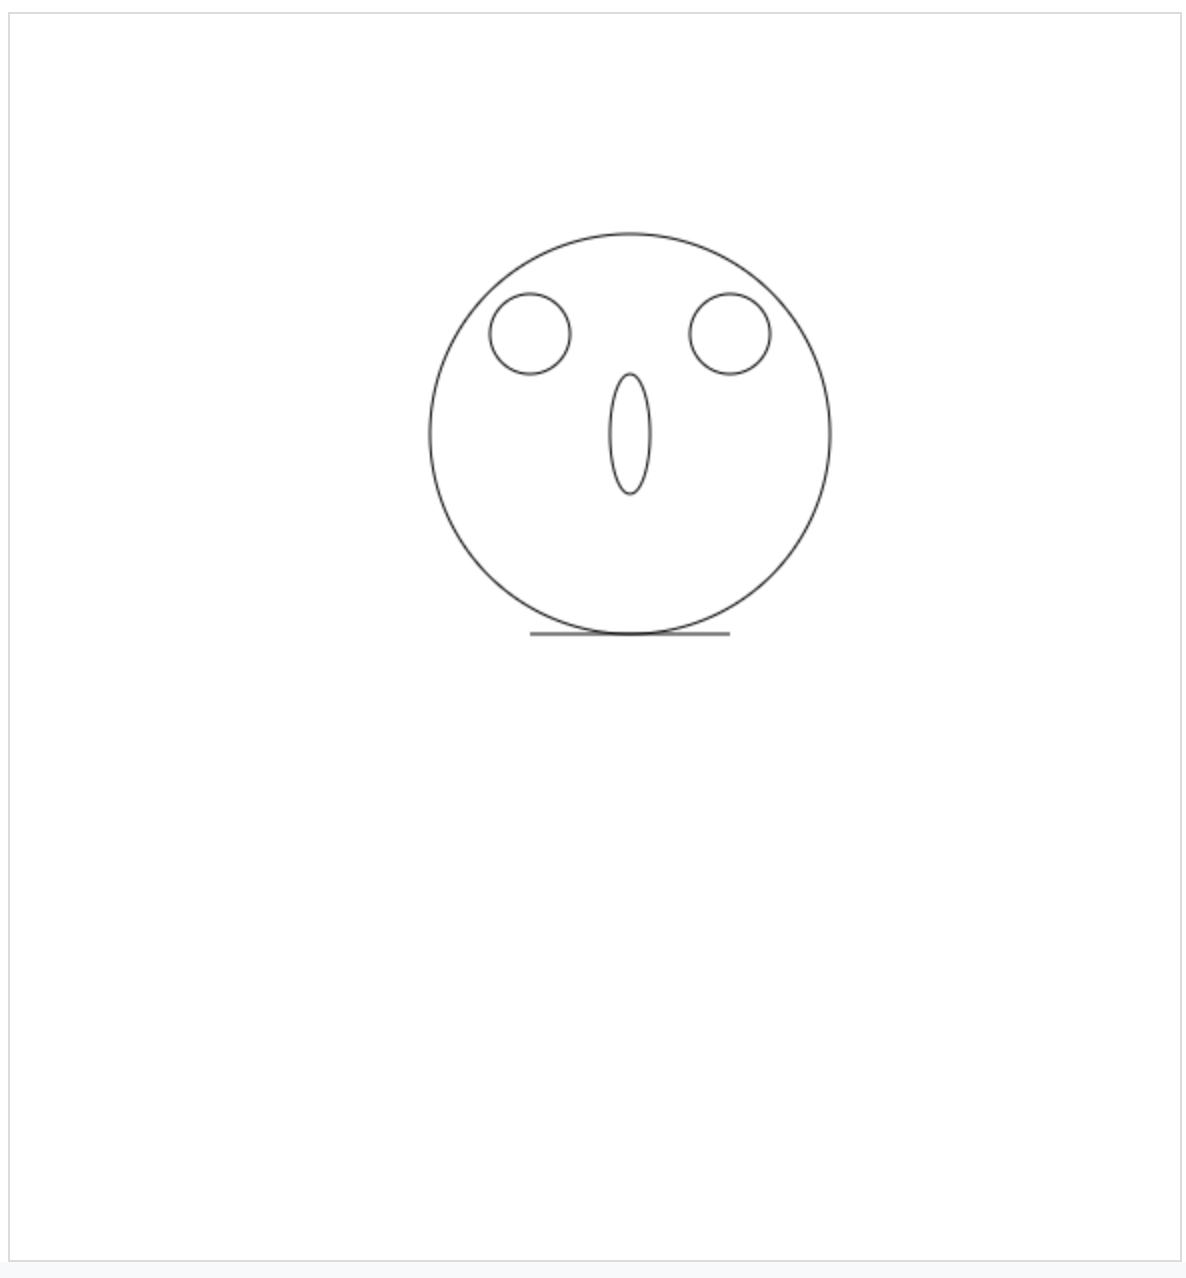
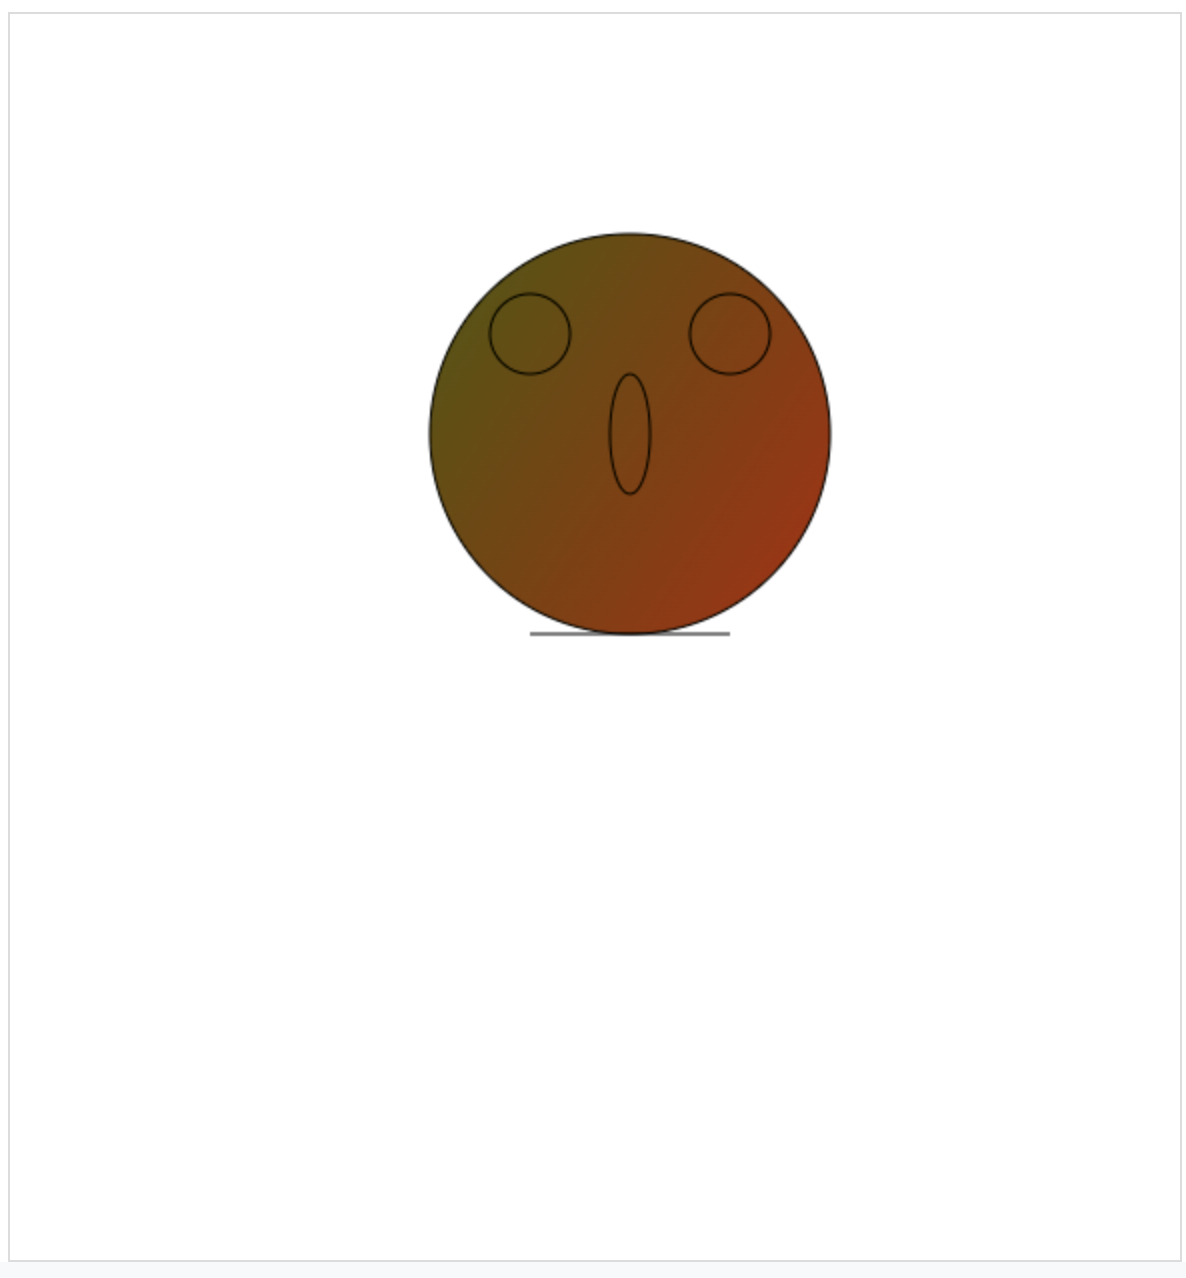
add: xxx

Changed region(s): [[0.3432, 0.1831, 0.7175, 0.5188]]

diff --git a/source/_posts/canvas-基本使用.md b/source/_posts/canvas-基本使用.md
@@ -10,9 +10,14 @@ category: 前端游戏杂谈
 ```javascript
       c.beginPath()
       c.arc(300, 200, 100, 0, 2 * Math.PI)
+      const g = c.createLinearGradient(0, 0, 600, 400)
+      g.addColorStop(0, 'green')
+      g.addColorStop(1, 'red')
+      c.fillStyle = g
+      c.fill()
       c.stroke()
       c.closePath()
-
+      
       c.beginPath()
       c.arc(250, 150, 20, 0, 2 * Math.PI)
       c.stroke()
